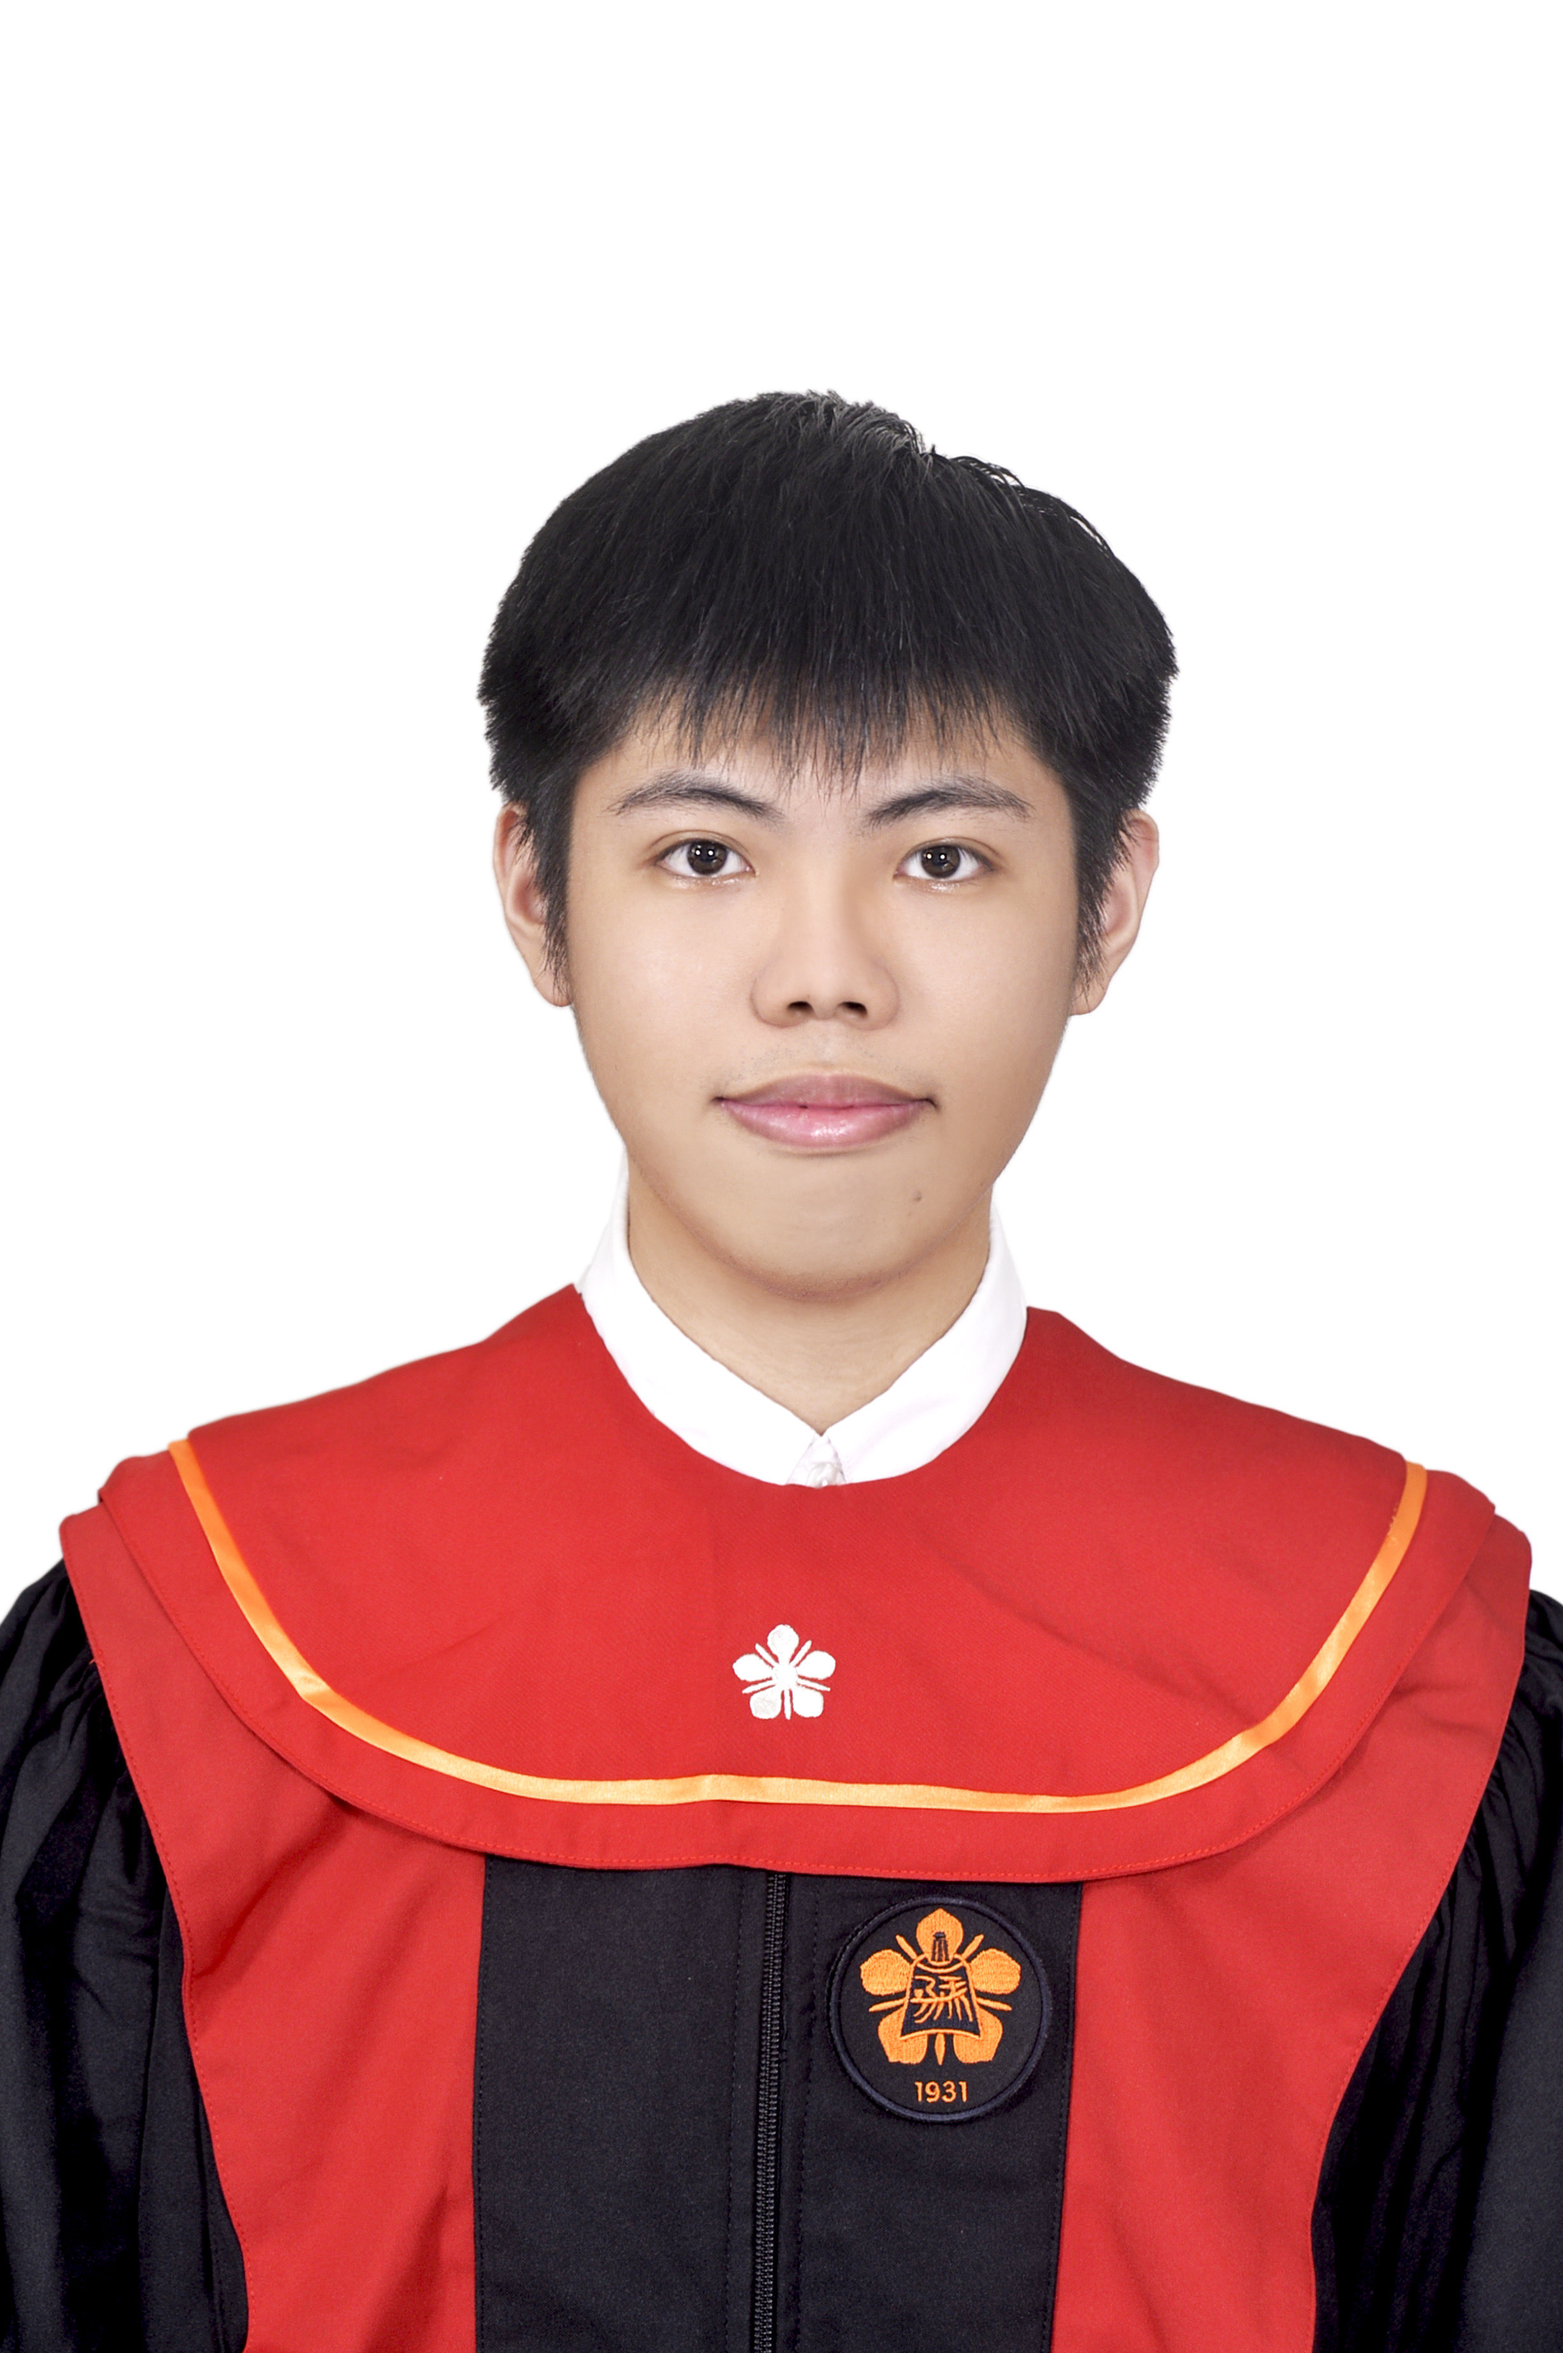
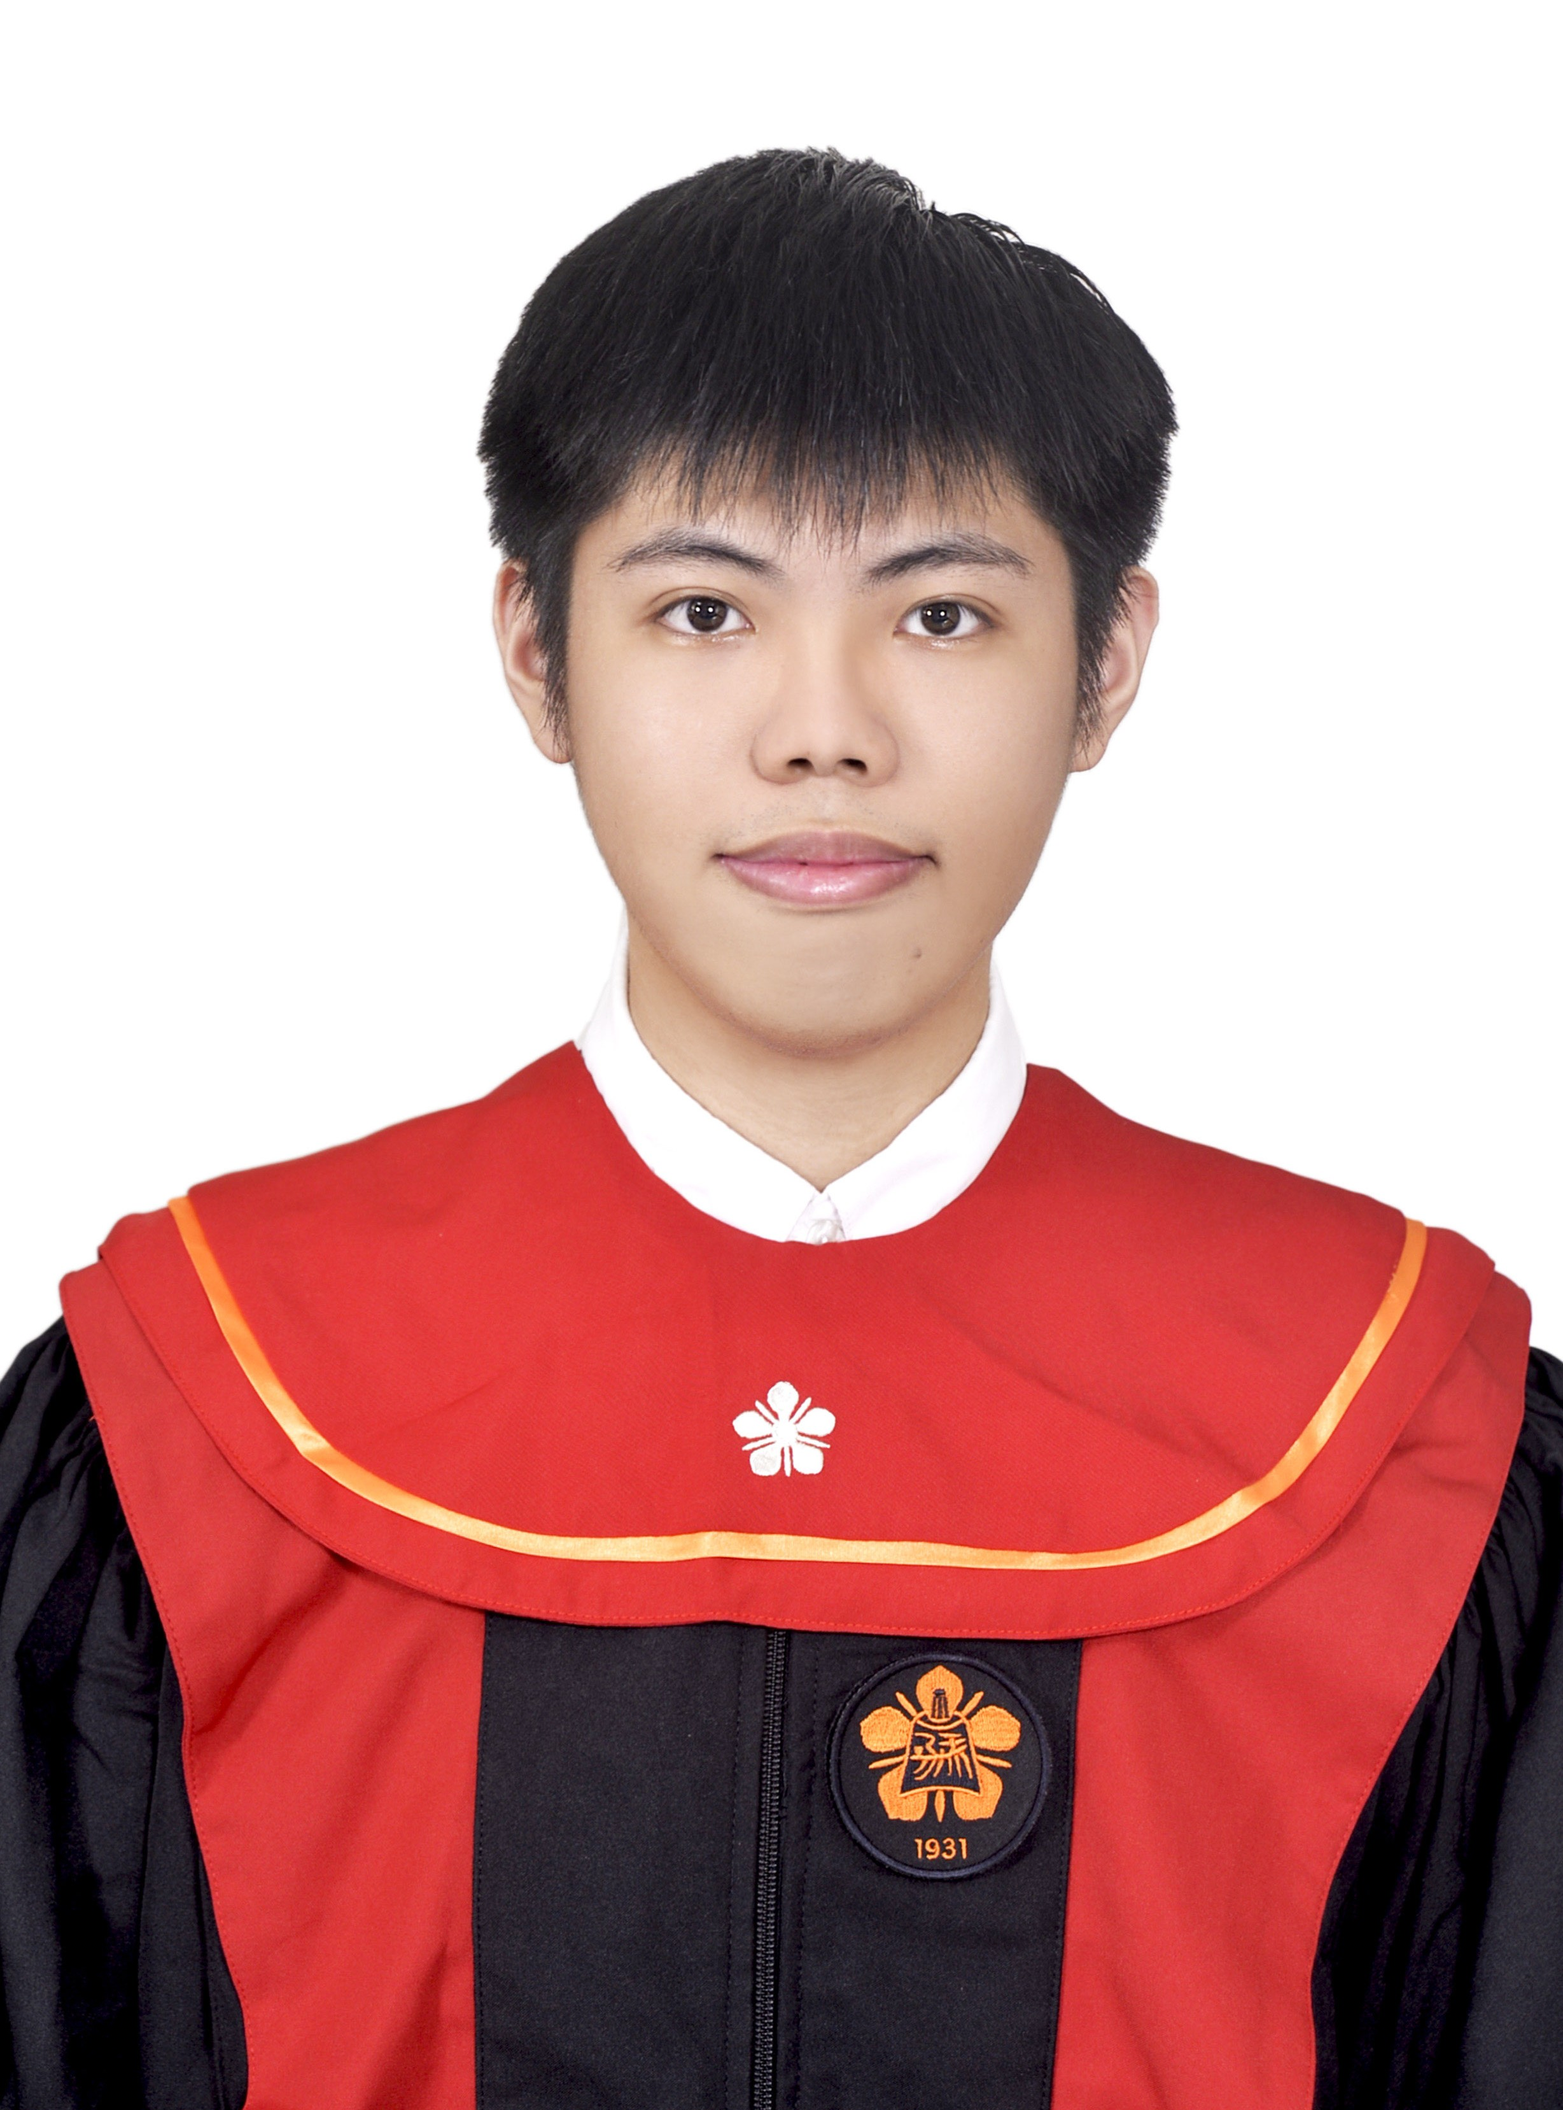
update homepage

Changed region(s): [[0.0, 0.0622, 1.0, 0.9946], [0.0309, 0.8702, 0.0619, 0.9013]]

diff --git a/_pages/about.md b/_pages/about.md
@@ -2,7 +2,7 @@
 layout: about
 title: about
 permalink: /
-subtitle: Master's Graduate, Department of Aeronautics and Astronautics, National Cheng Kung University | 2024-2026 Bachelor's Graduate, Department of Aeronautics and Astronautics, National Cheng Kung University | 2020-2024
+subtitle: M.S. Graduate in Aeronautics and Astronautics, NCKU
 
 profile:
   align: right
@@ -10,8 +10,8 @@ profile:
   image_circular: false # crops the image to make it circular
   more_info: >
     <p>Email: david010330@gmail.com</p>
-    <p>No.9, Ln.112, Fuxing Rd.</p>
-    <p>Qiaotou Vil., Fuxing Township, Changhua County</p>
+    <p>No.9, Ln.112, Fuxing Rd., Qiaotou Vil.,</p>
+    <p>Fuxing Township, Changhua County, Taiwan</p>
 
 selected_papers: true # includes a list of papers marked as "selected={true}"
 social: true # includes social icons at the bottom of the page
